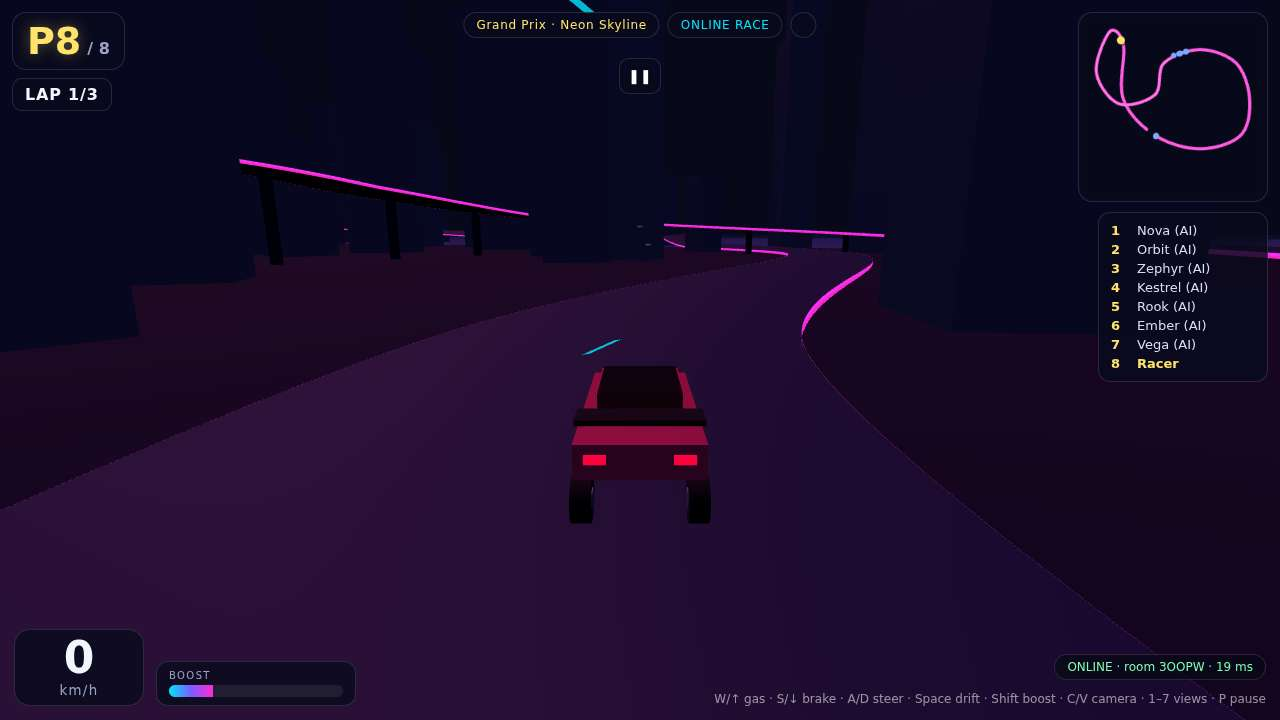
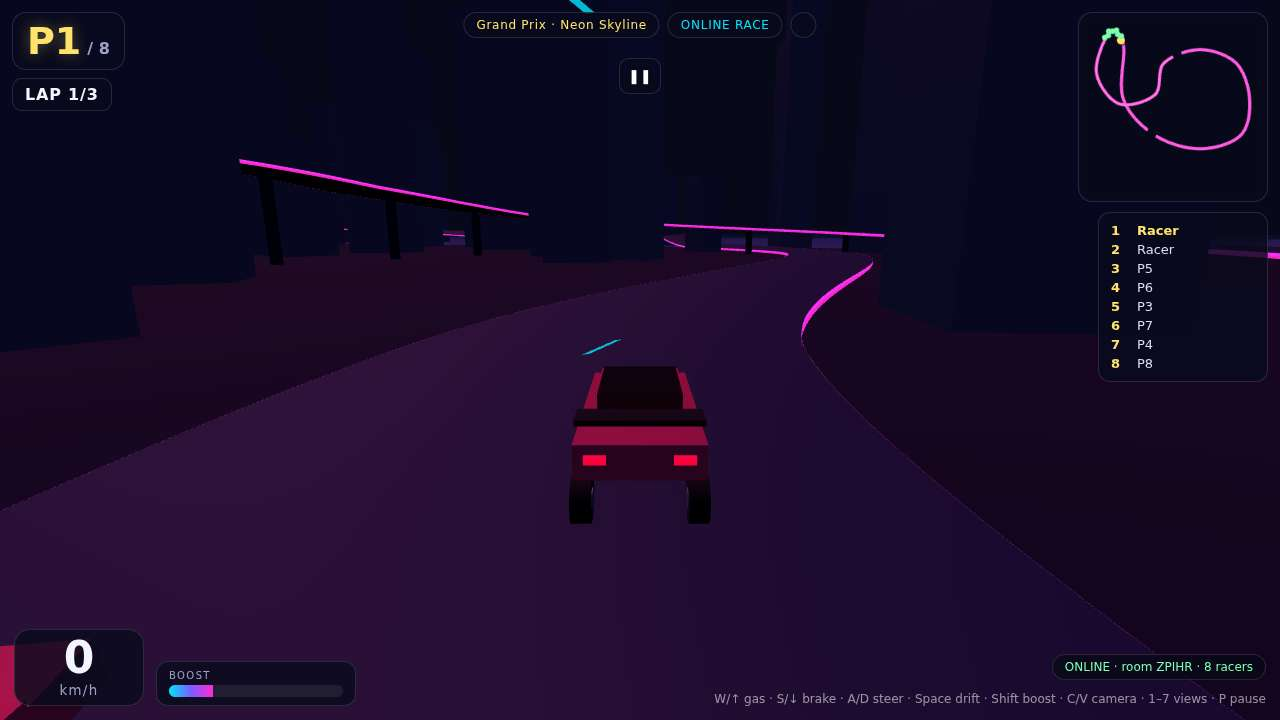
Joiner tests, asset source notes, test report

diff --git a/docs/TEST_REPORT.md b/docs/TEST_REPORT.md
@@ -161,3 +161,19 @@ Open issues (not fixed):
 - The private-room test's Start-now click timed out once in the full matrix, while a standalone run started the race fine. Cause not diagnosed.
 - Car models are box primitives. No public 3D car, track or environment assets have been added yet.
 - No Forza-Horizon-style palette, no Asphalt-style control scheme, no licensed model research yet.
+
+## Joiner matrix (2026-10-16, build 6c0b00f on Render)
+
+`tests/browser/joiners.mjs` against https://skystunt-io.onrender.com — result: PASS (exit 0).
+
+| Joiner path | Result |
+|---|---|
+| Private room created, joiner types code | Joiner sees 2, host sees 2 |
+| Invite link `?room=CODE` (code prefilled) | Joiner sees 3, host sees 3 |
+| Invalid code | Shows "Room QQQQQ was not found." with Back. Fixed in this build (was stuck on "Connecting…") |
+| Quick Play, two players in the same lobby | Same room, host sees 2 |
+| Full room: 2 browser tabs + 6 protocol clients | Host sees 8. A 9th join is refused with "Room is full" |
+
+Known from earlier runs (same test, earlier builds):
+- The Quick Play check failed once. A protocol test (`scratch/quick-gap.mjs`) confirmed the cause: after the 12 s lobby window, a second Quick Play player gets a new room, because a race in progress is not joinable. This is a design gap, not fixed.
+- The full-room check once showed the host with 1 player; it showed 8 on the passing run. Not diagnosed.

diff --git a/docs/ASSET_SOURCES.md b/docs/ASSET_SOURCES.md
@@ -1,0 +1,21 @@
+# Public assets: what was checked (2026-10-16)
+
+Only sources that were actually opened or returned in search results during this session are listed. Nothing is in the game yet unless marked "in game".
+
+## Car models
+
+| Source | Licence (as stated on the page) | Format (as stated) | Status |
+|---|---|---|---|
+| Kenney Car Kit, https://kenney.nl/assets/car-kit | CC0 (kenney.nl page: "Creative Commons CC0"; 45 assets) | glTF/GLB, OBJ, FBX (per itch.io listing) | Not downloaded yet |
+| Kenney Car Kit on itch.io, https://kenney-assets.itch.io/car-kit | CC0 1.0, "no attribution required" | OBJ, FBX, glTF; 3.4 MB zip | Not downloaded yet |
+
+## Palette reference
+
+- No official Forza Horizon 5 UI colour palette was found in the sources checked.
+- Forza Horizon logo colours (third-party, whatthelogo.com): #EA0C80, #231F20, #FBD5E9, #871254, #817E7F. These are logo colours, not UI colours. Using them is an approximation, not a copy of FH5.
+
+## Not yet researched
+
+- Environment kits (city, nature, track pieces) beyond the Kenney car kit.
+- Asphalt-style control reference (no source fetched yet).
+- The 80+ source research register is not updated for this turn.
